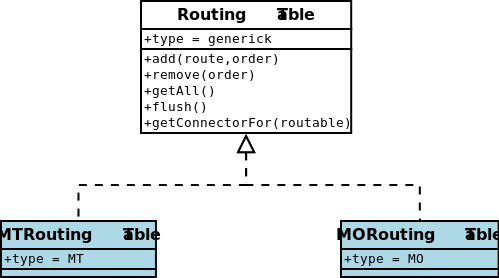
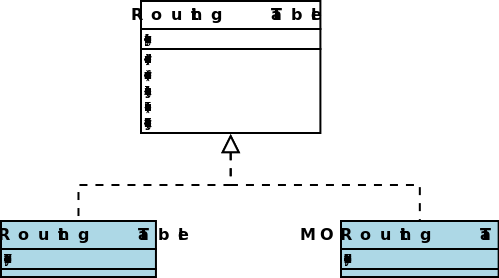
Replaced RoutingTables.getConnectorFor() by RoutingTables.getRouteFor() for billing purposes since rating information is in route scope and in connector scope

diff --git a/jasmin/protocols/http/server.py b/jasmin/protocols/http/server.py
@@ -1,3 +1,7 @@
+"""
+This is the http server module serving the /send API
+"""
+
 import logging
 import re
 from twisted.web.resource import Resource
@@ -23,6 +27,10 @@ class Send(Resource):
                                               long_content_split = HTTPApiConfig.long_content_split)
     
     def render(self, request):
+        """
+        /send request processing
+        """
+        
         self.log.debug("Rendering /send response with args: %s from %s" % (
                                                                            request.args, 
                                                                            request.getClientIP()))
@@ -102,11 +110,15 @@ class Send(Resource):
             # Routing
             routedConnector = None # init
             routable = RoutableSubmitSm(SubmitSmPDU, user)
-            routedConnector = self.RouterPB.getMTRoutingTable().getConnectorFor(routable)
-            if routedConnector is None:
+            route = self.RouterPB.getMTRoutingTable().getRouteFor(routable)
+            if route is None:
                 self.log.debug("No route matched this SubmitSmPDU")
                 raise RouteNotFoundError("No route found")
             else:
+                # Get connector from selected route
+                self.log.debug("RouterPB selected %s for this SubmitSmPDU" % route)
+                routedConnector = route.getConnector()
+                
                 # Set priority
                 priority = 0
                 if 'priority' in updated_request.args:
@@ -161,6 +173,12 @@ class Send(Resource):
                 raise ServerError('Cannot send submit_sm, check SMPPClientManagerPB log file for details')
             else:
                 response = {'return': c.result, 'status': 200}
+
+                # Route billing processing
+                # [RULE 1] If route is rated and user's balance is not unlimited (balance != None) then 
+                # user will be billed for the selected route rate.
+                
+                # [RULE 2] if user's submit_sm_count is not unlimited (!=None) then decrement it
         except Exception, e:
             self.log.error("Error: %s" % e)
             

diff --git a/jasmin/routing/test/test_RoutingTables.py b/jasmin/routing/test/test_RoutingTables.py
@@ -14,12 +14,12 @@ class RoutingTableTests():
         routing_t.add(self.mt_route1, 1)
         routing_t.add(self.mt_route4, 0)
         
-        c = routing_t.getConnectorFor(self.routable_matching_route1)
-        self.assertEqual(c, self.connector1)
-        c = routing_t.getConnectorFor(self.routable_matching_route2)
-        self.assertEqual(c, self.connector2)
-        c = routing_t.getConnectorFor(self.routable_notmatching_any)
-        self.assertEqual(c, self.connector4)
+        c = routing_t.getRouteFor(self.routable_matching_route1)
+        self.assertEqual(c.getConnector(), self.connector1)
+        c = routing_t.getRouteFor(self.routable_matching_route2)
+        self.assertEqual(c.getConnector(), self.connector2)
+        c = routing_t.getRouteFor(self.routable_notmatching_any)
+        self.assertEqual(c.getConnector(), self.connector4)
         
     def test_routing_table_order(self):
         routing_t = self._routingTable()

diff --git a/jasmin/routing/router.py b/jasmin/routing/router.py
@@ -99,11 +99,16 @@ class RouterPB(pb.Avatar):
         
         # Routing
         routable = RoutableDeliverSm(DeliverSmPDU, connector)
-        routedConnector = self.getMORoutingTable().getConnectorFor(routable)
-        if routedConnector is None:
+        route = self.getMORoutingTable().getRouteFor(routable)
+        if route is None:
             self.log.debug("No route matched this DeliverSmPDU with scid:%s and msgid:%s" % (scid, msgid))
             yield self.rejectMessage(message)
         else:
+            # Get connector from selected route
+            self.log.debug("RouterPB selected %s for this SubmitSmPDU" % route)
+            routedConnector = route.getConnector()
+
+            
             self.log.debug("Connector '%s' is set to be a route for this DeliverSmPDU" % routedConnector.cid)
             yield self.ackMessage(message)
             

diff --git a/jasmin/routing/RoutingTables.py b/jasmin/routing/RoutingTables.py
@@ -66,9 +66,8 @@ class RoutingTable:
     def flush(self):
         self.table = []
         
-    def getConnectorFor(self, routable):
-        """This will return the right connector to send the routable to, if no routes were found it will
-        return None
+    def getRouteFor(self, routable):
+        """This will return the right route to send the routable to, None returned otherwise
         """
         
         if not isinstance(routable, Routable):
@@ -76,9 +75,8 @@ class RoutingTable:
         
         for r in self.table:
             route = r.values()[0]
-            m = route.matchFilters(routable)
-            if m is not None:
-                return m
+            if route.matchFilters(routable):
+                return route
         
         return None
     

diff --git a/jasmin/protocols/http/test/test_server.py b/jasmin/protocols/http/test/test_server.py
@@ -72,7 +72,6 @@ class SendTestCases(HTTPApiTestCases):
         valid_priorities = {0, 1, 2, 3}
         
         for params['priority'] in valid_priorities:
-            print params
             response = yield self.web.get("send", params)
             self.assertEqual(response.responseCode, 500)
             # This is a normal error since SMPPClientManagerPB is not really running

diff --git a/misc/doc/sources/routing/index.rst b/misc/doc/sources/routing/index.rst
@@ -227,7 +227,7 @@ The **RoutingTable** class is extended by destination-specific child classes (MO
 * **getAll()**: Will return all the provisioned routes
 * **flush()**: Will remove all provisioned routes
 
-The **getConnectorFor(routable)** will get the right route to consider for a given routable, this method will iterate through all the provisioned 
+The **getRouteFor(routable)** will get the right route to consider for a given routable, this method will iterate through all the provisioned 
 routes in descendant order to call their respective **matchFilters(routable)** method. 
 
 .. figure:: /resources/routing/RoutingTable.png
